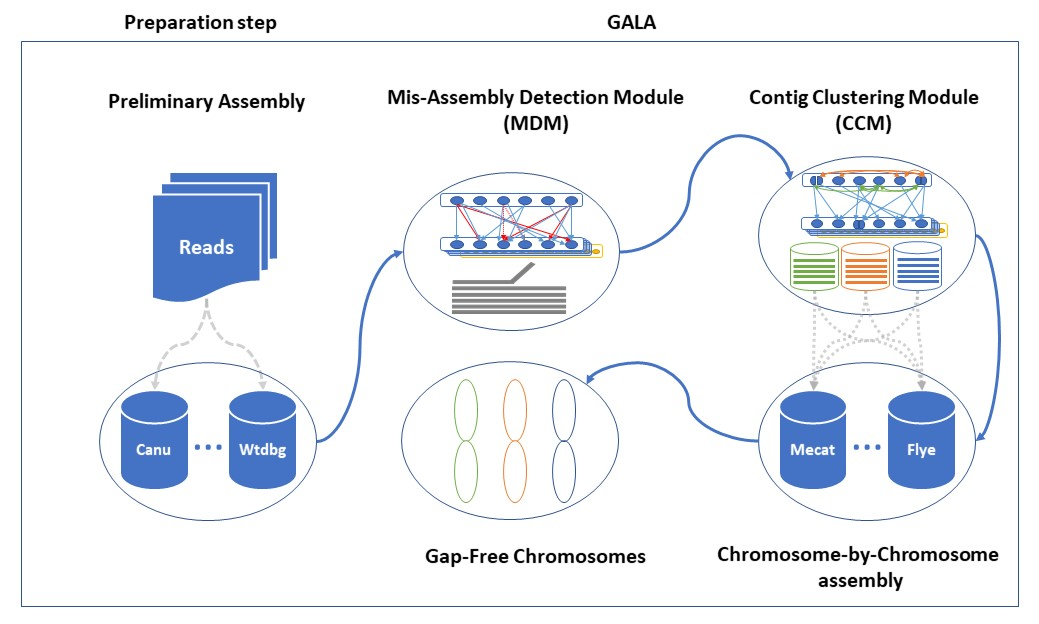
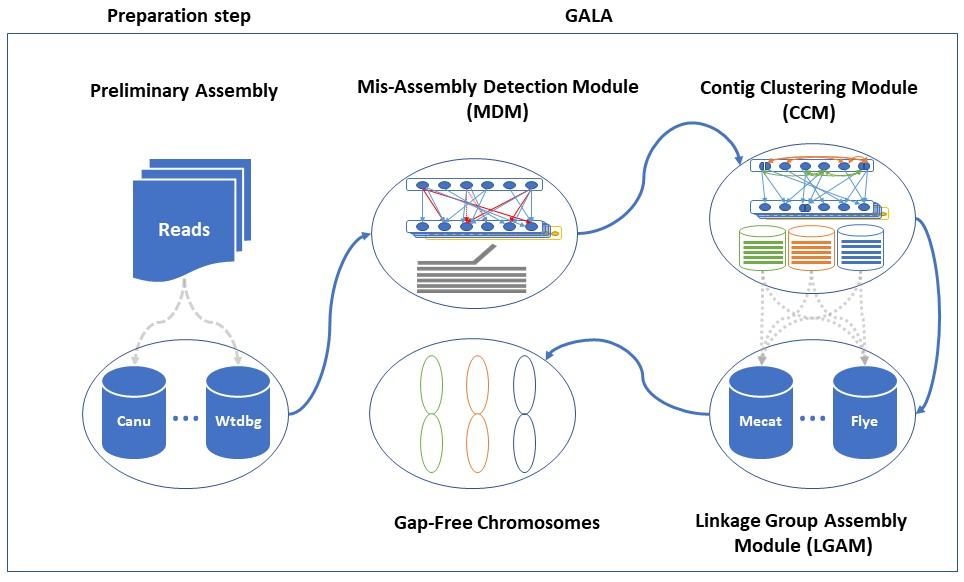
GALA update

diff --git a/src/read_extract.py b/src/read_extract.py
@@ -1,6 +1,6 @@
 #!/usr/bin/env python2
 ################################################################
-#  This file part of GALA Gap-free chromosome-scALe Assembler  #
+#  This file part of GALA Gap-free Long-reads Assembler        #
 #  Auther: Mohamed awad                                        #
 #  Company: Xiangchao Gan lab (MPIPZ)                          #
 #  Released under the (MIT) license (see LICENSE file)         #
@@ -35,7 +35,7 @@ def read_extract(read_file,names_file,file_type='fa'):
             line2 = a.readline()
             line3 = a.readline()
             line4 = a.readline()
-            key=line1.split(' ')[0].replace('@','')
+            key=line1.split(' ')[0].replace('@','').replace('\n','')
             try:
                 d[key]=line1+line2+line3+line4
             except:

diff --git a/src/bam_seprator.py b/src/bam_seprator.py
@@ -1,6 +1,6 @@
 #!/usr/bin/env python2
 ################################################################
-#  This file part of GALA Gap-free chromosome-scALe Assembler  #
+#  This file part of GALA Gap-free Long-reads Assembler        #
 #  Auther: Mohamed awad                                        #
 #  Company: Xiangchao Gan lab (MPIPZ)                          #
 #  Released under the (MIT) license (see LICENSE file)         #

diff --git a/src/comp_generator.py b/src/comp_generator.py
@@ -1,6 +1,6 @@
 #!/usr/bin/env python2
 ################################################################
-#  This file part of GALA Gap-free chromosome-scALe Assembler  #
+#  This file part of GALA Gap-free Long-reads Assembler        #
 #  Auther: Mohamed awad                                        #
 #  Company: Xiangchao Gan lab (MPIPZ)                          #
 #  Released under the (MIT) license (see LICENSE file)         #

diff --git a/src/cut_detector.py b/src/cut_detector.py
@@ -1,6 +1,6 @@
 #!/usr/bin/env python2
 ################################################################
-#  This file part of GALA Gap-free chromosome-scALe Assembler  #
+#  This file part of GALA Gap-free Long-reads Assembler        #
 #  Auther: Mohamed awad                                        #
 #  Company: Xiangchao Gan lab (MPIPZ)                          #
 #  Released under the (MIT) license (see LICENSE file)         #

diff --git a/src/cut_gathering.py b/src/cut_gathering.py
@@ -1,6 +1,6 @@
 #!/usr/bin/env python2
 ################################################################
-#  This file part of GALA Gap-free chromosome-scALe Assembler  #
+#  This file part of GALA Gap-free Long-reads Assembler        #
 #  Auther: Mohamed awad                                        #
 #  Company: Xiangchao Gan lab (MPIPZ)                          #
 #  Released under the (MIT) license (see LICENSE file)         #

diff --git a/src/file_filter.py b/src/file_filter.py
@@ -1,6 +1,6 @@
 #!/usr/bin/env python2
 ################################################################
-#  This file part of GALA Gap-free chromosome-scALe Assembler  #
+#  This file part of GALA Gap-free Long-reads Assembler        #
 #  Auther: Mohamed awad                                        #
 #  Company: Xiangchao Gan lab (MPIPZ)                          #
 #  Released under the (MIT) license (see LICENSE file)         #

diff --git a/src/joining.py b/src/joining.py
@@ -1,6 +1,6 @@
 #!/usr/bin/env python2
 ################################################################
-#  This file part of GALA Gap-free chromosome-scALe Assembler  #
+#  This file part of GALA Gap-free Long-reads Assembler        #
 #  Auther: Mohamed awad                                        #
 #  Company: Xiangchao Gan lab (MPIPZ)                          #
 #  Released under the (MIT) license (see LICENSE file)         #

diff --git a/src/new_genome.py b/src/new_genome.py
@@ -1,6 +1,6 @@
 #!/usr/bin/env python2
 ################################################################
-#  This file part of GALA Gap-free chromosome-scALe Assembler  #
+#  This file part of GALA Gap-free Long-reads Assembler        #
 #  Auther: Mohamed awad                                        #
 #  Company: Xiangchao Gan lab (MPIPZ)                          #
 #  Released under the (MIT) license (see LICENSE file)         #

diff --git a/src/scaffolding.py b/src/scaffolding.py
@@ -1,6 +1,6 @@
 #!/usr/bin/env python2
 ################################################################
-#  This file part of GALA Gap-free chromosome-scALe Assembler  #
+#  This file part of GALA Gap-free Long-reads Assembler        #
 #  Auther: Mohamed awad                                        #
 #  Company: Xiangchao Gan lab (MPIPZ)                          #
 #  Released under the (MIT) license (see LICENSE file)         #

diff --git a/readme.md b/readme.md
@@ -1,7 +1,7 @@
-# Gap-Free Chromosome-scale Assembly (GALA) 
-**GALA**, is a Gap-free chromosome-scALe Assembler. GALA builds a multi-layer graph from different preliminary assemblies, long-reads and potential other sources of information, such as Hi-C assemblies. GALA firstly, identify the mis-assembled contigs and trim it. Then, identify multiple linkage groups in the genome, each representing a single chromosome, and describing chromosome structure with raw reads and assembled contigs from multiple de novo assembly tools. Finally assemble each linkage group by integrating results from multiple assembly tools and inferring from the raw reads. 
+# Gap-Free Long-read Assembler (GALA) 
+**GALA** is a **Ga**p-free **L**ong-read **A**ssembler. GALA builds a multi-layer graph from different preliminary assemblies, long-reads, and potentially other sources of information, such as Hi-C assemblies. During this process, it identifies mis-assembled contigs and trim them. The corrected data are then partitioned into multiple linkage groups, each representing a single chromosome. Each linkage group is assembled independently with existing assembly tools and a simplified version of overlap-graph-based merging algorithm is used to merge multiple contigs if necessary.
 
-**GALA** had [seven modules](#Description)  each can used separately 
+**GALA** has [three modules](#Description)  each can be used separately.
 	<p align="center">
 ![**GALA Pipline** ](fig/gala.jpg)
 	</p>
@@ -14,22 +14,22 @@
 5. [canu](https://github.com/marbl/canu)
 
 ## Installation
-GALA can run directly from gala folder
+GALA can be run directly from the gala folder
 >git clone [https://github.com/ganlab/gala.git](https://github.com/ganlab/gala.git)
->cd gala
+>cd GALA
 
 **Or**
 You can run `install` to add it to your **PATH**	
 
 ## Usage
-Using GALA pipeline to assemble a genome involves preliminary steps and three main Steps .
+Using GALA pipeline to assemble a genome involves preliminary steps and three main Steps.
 ### Preliminary step and Inputs    
 #### Preliminary step
-Use different software to construct preliminary assemblies from long reads e.g. ([Canu](https://github.com/marbl/canu), [Flye](https://github.com/fenderglass/Flye), [MECAT](https://github.com/xiaochuanle/MECAT), [Miniasm](https://github.com/lh3/miniasm), and [Wtdbg2](https://github.com/ruanjue/wtdbg2)).
+Use different software to construct preliminary assemblies from long reads, e.g. ([Canu](https://github.com/marbl/canu), [Flye](https://github.com/fenderglass/Flye), [MECAT](https://github.com/xiaochuanle/MECAT), [Miniasm](https://github.com/lh3/miniasm), and [Wtdbg2](https://github.com/ruanjue/wtdbg2)).
 
 #### Inputs:
 * Raw reads and corrected reads if available.
-* The user need to prepare `draft_names_paths.txt` for preliminary assemblies.
+* The user needs to prepare `draft_names_paths.txt` for preliminary assemblies.
 **Here is an example:**
 ```
 draft_1=path/to/draft_fasta_file
@@ -38,19 +38,19 @@ draft_3=path/to/draft_fasta_file
 draft_n=path/to/draftfasta file
 ```
 ## GALA Single Command Mode
-To run GFCA using one command user can use the following command
+To run GALA using one command user can use the following command:
 > gala  `draft_names_paths.txt` `fa/fq` `reads_file` `platform`
 
-In single command mode GALA used [canu](https://github.com/marbl/canu) for Chromosome-by-Chromosome assembly.
+In single command mode, GALA used [canu](https://github.com/marbl/canu) for Chromosome-by-Chromosome assembly.
  
-To use another assembler or multiple assemblers GALA provide three choices  [Canu](https://github.com/marbl/canu), [Flye](https://github.com/fenderglass/Flye), and [Miniasm](https://github.com/lh3/miniasm), pass it to `-a` argument with single space between them.
+To use another assembler or multiple assemblers, GALA provides three choices  [Canu](https://github.com/marbl/canu), [Flye](https://github.com/fenderglass/Flye), and [Miniasm](https://github.com/lh3/miniasm), pass it to `-a` argument with a single space between them.
 
-For sequencing_platform the user need to provide it in the same way that  [canu](https://github.com/marbl/canu) accept it: 
+For sequencing_platform the user needs to provide it in this way: 
 `-pacbio-raw` `-pacbio-corrected` `-nanopore-raw` `-nanopore-corrected` 
 ```
 usage: gala -h  [options] <draft_names & paths> <fa/fq> <reads> <platform>
 
-GALA Gap-free chromosome-scALe Assembeler
+GALA Gap-free Long-read Assembler
 
 positional arguments:
   draft_names           Draft names and paths [required]
@@ -74,28 +74,28 @@ optional arguments:
 ```
 ## GALA Step-by-Step Mode (recommended)
 ### Mis Assembly Detector Module (MDM)
-1.  Use `comp` module to generate `draft_comparison` file 
-	> comp `draft_names_paths.txt`  (Example in notes )
+1.  Use the `comp` module to generate a `draft_comparison` file 
+	> comp `draft_names_paths.txt`
 3. Run  `draft_comparison` file to produce drafts comparison paf files
 	> sh `draft_compare.sh`
-4. Use `mdm` module to identify mis-assembled contigs.
+4. Use the `mdm` module to identify mis-assembled contigs.
 	> mdm `comparison_folder` `number of assembly drafts`
-5.  Use `newgenome` module to Produce `misassembly-free` drafts.
+5.  Use the `newgenome` module to Produce `misassembly-free` drafts.
 	>  newgenome `draft_names_paths.txt`	`cut_folder`
 ### Contig Clustering Module (CCM)
-5.  Use `comp` module to generate `draft_comparison` file for `misassembly-free` drafts.
+5.  Use the `comp` module to generate a `draft_comparison` file for `misassembly-free` drafts.
 	> comp `new_draft_names_paths.txt` 
-7. Run  `draft_comparison` file to produce new drafts comparison paf files
+7. Run  `draft_comparison` file to produce new drafts comparison paf files.
 	> sh `draft_compare.sh`
-8. Run `ccm` module to produce contigs `linkage groups`.
+8. Run the `ccm` module to produce contigs `linkage groups`.
 	> ccm `comparison_folder`  `number of assembly drafts`
 	- **Note:**
-		You can also use `reformat` module to generate reformatted paf files and use it to confirm `linkage groups`.
-### Chromosome-by-Chromosome Assembly 
+		You can also use the `reformat` module to generate reformatted paf files and use them to confirm `linkage groups`.
+### Linkage Group Assembly Module (LGAM)
 8. Map all drafts against raw long reads and self-corrected reads if available.
 	 > bwa index   `misassembly-free draft`
 	 bwa mem -x pacbio/ont2d `misassembly-free draft`	`long-reads` 
-10. Use the following commands to separate the read names mapped to each each contig
+10. Use the following commands to separate the read names mapped to each contig
 	> samtools view -H bam_file |grep "SQ"|cut -f 2|cut -d : -f 2 > contig_names
 	
 	> seprator `contig_names` `mapping.bam`
@@ -103,49 +103,26 @@ optional arguments:
 	> sh bam_seprator.sh
 	
 	> for i in bams/*; do samtools view $i | cut -f 1 > $i.read_names;done;
-11. Use `cat` command to concatenate read name files belongs to the same `linkage group`.
+11. Use the `cat` command to concatenate read name files belongs to the same `linkage group`.
 	* For example:
 		> cat contig_1.bam.read_names contig_3.bam.read_names contig_7.bam.read_names > scaffold_1.read_names
-12. Use the `readsep` Module to separate each scaffold correlated reads.
+12. Use the `readsep` Module to separate each scaffold correlated-reads.
 	>for *i* in `scaffold_*.read_names`; do  readsep `raw/correted-reads`  `$i` -f `input reads file type fa/fq`
-13. Implement **Chromosome-by-Chromosome** assembly approach to retrieve gap-free chromosome scale assembly by
+13. Implement **Chromosome-by-Chromosome** assembly approach to retrieve the gap-free chromosome-scale assembly by
 	```
 	Assemble each read set from scaffold_*.read.fq with different
-	assembly softwares e.g.(Canu, Flye, Mecat, Miniasm,	and Wtdbg).
+	assembly software, e.g.(Canu, Flye, Mecat, Miniasm, and Wtdbg).
 	```
-	**we recommend** the user to try different  assembly tools specially ( [Flye](https://github.com/fenderglass/Flye), [MECAT](https://github.com/xiaochuanle/MECAT)/[NECAT](https://github.com/xiaochuanle/NECAT), and [Miniasm](https://github.com/lh3/miniasm))
-14. Finally map the **Chromosome-by-Chromosome**  outcomes against one of preliminary draft assemblies to confirm that all the contigs in the `linkage group` are assembled to the right chromosome/Scaffold. 
+	**we recommend** the user to try different  assembly tools especially ( [Flye](https://github.com/fenderglass/Flye), [MECAT](https://github.com/xiaochuanle/MECAT)/[NECAT](https://github.com/xiaochuanle/NECAT), and [Miniasm](https://github.com/lh3/miniasm))
+14. Finally, map the **LGAM**  outcomes against one of the preliminary draft assemblies to confirm that all the contigs in the `linkage group` are assembled to the right chromosome/Scaffold. 
  
 ## Description
-### **ccm:**
-Contig Clustering Module  **CCM** used to identify the `linkage groups` and the contigs overlap information in multiple  preliminary assemblies. 
-
-**CCM** could have wide application in generating consensus assembly from multiple sequences. In addition it is useful in reference guide scaffolding to determine Chromosomes `linkage groups`
-  ```
-  usage: ccm -h  [options] <path/to/mapping_files> <number of drafts>
-
-CCM Contig Clustring Module, part of GALA Gap-free chromosome-scALe Assembeler
-
-positional arguments:
-  mapping_files         mapping paf file [required]
-  drafts                Number of drafts [required]
-
-optional arguments:
-  -h, --help            show this help message and exit
-  -b Alignment block length	 [default 5000]
-  -p Alignment identity percentage	 [default 70%]
-  -c Shortest contig length	 [default 5000]
-  -q Mapping quality	 [default 20]
-  -f Output files name	[default scaffolds]
-  -o output files path	[default current directory]
-  -v, --version         show program's version number and exit
-  ```
 ### **comp:**
-comp module used to generate genome comparison file, if the user want to compare multiple genomes against each-other.
+The comp module used to generate a genome comparison file if the user wants to compare multiple genomes against each other.
 ```
 usage: comp -h  [options] <draft_names & paths> 
 
-generate genome comparison files, part of GALA Gap-free chromosome-scALe Assembeler
+Generate genome comparison files, part of GALA Gap-free Long-read Assembler
 
 positional arguments:
   drafts                Draft names and paths [required]
@@ -157,12 +134,12 @@ optional arguments:
 
 ```
 ### **mdm:**
-Miss-Assembly Detector Module **mdm**  used to detect misassembled contigs. The algorithm rely on the  alignment contradictory information 
+Miss-assembly Detector Module used to detect misassembled contigs. The algorithm relies on the alignment's contradictory information. 
 
-mis-assembly detection module (MDM) should be applicable for error correction regardless of the specific algorithm used for assembly and can differentiate between misassembly and Structure variation
+mis-assembly detection module should be applicable for error correction regardless of the specific algorithm used for assembly and can differentiate between misassembly and Structure variation
 ```
 usage: mdm -h  [options] path/to/mapping_files number of drafts
-MADA Mis-Assembly Detector Module, part of GALA Gap-free chromosome-scALe Assembeler
+MDM Mis-assembly Detector Module, part of GALA Gap-free Long-read Assembler
 
 positional arguments:
   mapping_files         mapping paf file [required]
@@ -179,11 +156,11 @@ optional arguments:
   -v, --version         show program's version number and exit
 ```
 #### **newgenome:**
-newgenome module trims the misassembled contigs and gives misassembly free genome. This module used only with multiple samples
+The newgenome module trims the misassembled contigs and gives misassembly free genome. This module used only with multiple samples
 ```
 usage: newgenome -h  [options] <draft_names & paths> <path to cut files>
 
-Produce mis-assembly free genomes, part of GALA Gap-free chromosome-scALe Assembeler 
+Produce mis-assembly free genomes, part of GALA Gap-free Long-read Assembler 
 
 positional arguments:
   draft                 Draft names and paths [required]
@@ -195,12 +172,35 @@ optional arguments:
   -o output files path	[default current directory]
   -v, --version         show program's version number and exit
 ```
+### **ccm:**
+Contig Clustering Module used to identify the `linkage groups` and the contigs overlap information in multiple  preliminary assemblies. 
+
+ccm could have extended applications in generating consensus assembly from multiple sequences. Besides, it is useful in reference guide scaffolding to determine Chromosomes `linkage groups`
+  ```
+  usage: ccm -h  [options] <path/to/mapping_files> <number of drafts>
+
+CCM Contig Clustering Module, part of GALA Gap-free Long-read Assembler
+
+positional arguments:
+  mapping_files         mapping paf file [required]
+  drafts                Number of drafts [required]
+
+optional arguments:
+  -h, --help            show this help message and exit
+  -b Alignment block length	 [default 5000]
+  -p Alignment identity percentage	 [default 70%]
+  -c Shortest contig length	 [default 5000]
+  -q Mapping quality	 [default 20]
+  -f Output files name	[default scaffolds]
+  -o output files path	[default current directory]
+  -v, --version         show program's version number and exit
+  ```
 ### reformat
-reformat module filter the alignment data in paf mapping files and merge overlapping and continuous alignment intervals into a single mapping interval. So each contig in query draft will have one alignment interval with the subject draft.
+the reformat module filters the alignment data in paf mapping files and merge overlapping and continuous alignment intervals into a single mapping interval. So, each contig in query draft will have one alignment interval with the subject draft.
 ```
 usage: reformat -h  [options] <path/to/mapping_files> <number of drafts>
 
-Re-formatting mapping files tool, part of GALA Gap-free chromosome-scALe Assembeler
+Re-formatting mapping files module, part of GALA Gap-free Long-read Assembler
 
 positional arguments:
   mapping_files         mapping paf file [required]
@@ -216,29 +216,12 @@ optional arguments:
   -o output files path	[default current directory]
   -v, --version         show program's version number and exit
   ```
- 
-### readsep
-readsep module separate a set of reads from sequencing dataset according to the read name in definition line.
-```
-usage: readsep -h [options] <reads> <read_titles>
-
-extract reads from fasta or fastq, part of GALA Gap-free chromosome-scALe Assembeler
-
-positional arguments:
-  reads                 raw/corrected reads [required]
-  read_titles           read names [required]
-
-optional arguments:
-  -h, --help            show this help message and exit
-  -f input file format (fa/fq)
-  -v, --version         show program's version number and exit
-  ```
 ### seprator
-seprator module used to separate contigs alignments  in an individual bams and separate the read names mapped to each contig in an  individual file
+The seprator module used to separate contigs alignments in individual bams and separate the read names mapped to each contig in an individual file
 ```
-usage: seprator -h  [options] <draft_names & paths> 
+usage: seprator -h  [options] <contig_names> <bam_file>
 
-Separate each contigs correlated read names, part of GALA Gap-free chromosome-scALe Assembeler
+Separate each contig correlated read names, part of GALA Gap-free Long-read Assembler
 
 positional arguments:
   contig_names          contig_names [required]
@@ -250,7 +233,25 @@ optional arguments:
   -f Output files name	[default bam_seprator]
   -b output folder name	 [default bams]
   -v, --version         show program's version number and exit
-```
 
+Use the following command to produce contig_names file:
+	samtools view -H <bam_file> |grep 'SQ'|cut -f 2|cut -d : -f 2 > contig_names
+```
+### readsep
+The readsep module separates a set of reads from a sequencing dataset according to the read name in the definition line.
+```
+usage: readsep -h [options] <reads> <read_titles>
+
+Extract reads from fasta or fastq, part of GALA Gap-free Long-read Assembler
+
+positional arguments:
+  reads                 raw/corrected reads [required]
+  read_titles           read names [required]
+
+optional arguments:
+  -h, --help            show this help message and exit
+  -f input file format (fa/fq)
+  -v, --version         show program's version number and exit
+  ```
 ## Licence
-GALA is distributed under MIT license. See the [LICENSE file](https://github.com/ganlab/gala/LICENSE) for details
+GALA is distributed under MIT license. See the [LICENSE file](https://github.com/ganlab/GALA/blob/master/LICENSE) for details.
